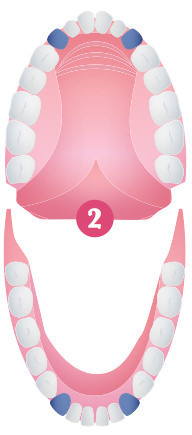
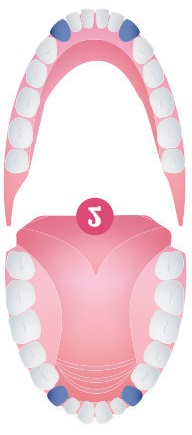
Updated info
Updated info

diff --git a/parcial/parcial.html b/parcial/parcial.html
@@ -243,10 +243,10 @@
         requestAnimationFrame(animate);
       }
 
-      function dientesIncisivos() {
+      function infoShower(pathToImage, pathToInfo, xImg, yImg) {
         var Dgeometry = new THREE.PlaneGeometry(24, 53, 1, 1);
         //create texture
-        var Dtexture = new THREE.TextureLoader().load("./img/incisivos.jpg");
+        var Dtexture = new THREE.TextureLoader().load(pathToImage);
         var Dmaterial = new THREE.MeshBasicMaterial({
           map: Dtexture,
           side: THREE.DoubleSide,
@@ -254,11 +254,9 @@
         var Dplane = new THREE.Mesh(Dgeometry, Dmaterial);
         Dplane.position.set(60, 25, -10);
 
-        var Igeometry = new THREE.PlaneGeometry(102, 51, 1, 1);
+        var Igeometry = new THREE.PlaneGeometry(yImg, xImg, 1, 1);
         //create texture
-        var Itexture = new THREE.TextureLoader().load(
-          "./img/dataincisivos.jpg"
-        );
+        var Itexture = new THREE.TextureLoader().load(pathToInfo);
         Itexture.wrapS = THREE.RepeatWrapping;
         Itexture.repeat.x = 1;
 
@@ -267,14 +265,11 @@
           side: THREE.DoubleSide,
         });
         var Iplane = new THREE.Mesh(Igeometry, Imaterial);
-        Iplane.position.set(130, 30, -20);
+        Iplane.position.set(130, 25, -10);
 
         scene.add(Dplane);
         scene.add(Iplane);
       }
-      function dientesCaninos() {}
-      function dientesPremolares() {}
-      function dientesMolares() {}
 
       init();
 
@@ -293,7 +288,10 @@
         30,
         0
       );
-      dientesIncisivos();
+      // infoShower("./img/incisivos.jpg", "./img/dataincisivos.jpg", 102, 51);
+      // infoShower("./img/caninos.jpg", "./img/datacaninos.jpg", 102, 51);
+      // infoShower("./img/premolares.jpg", "./img/datapremolares.jpg", 102, 51);
+      infoShower("./img/molares.jpg", "./img/datamolares.jpg", 136, 109);
 
       requestAnimationFrame(animate);
     </script>
